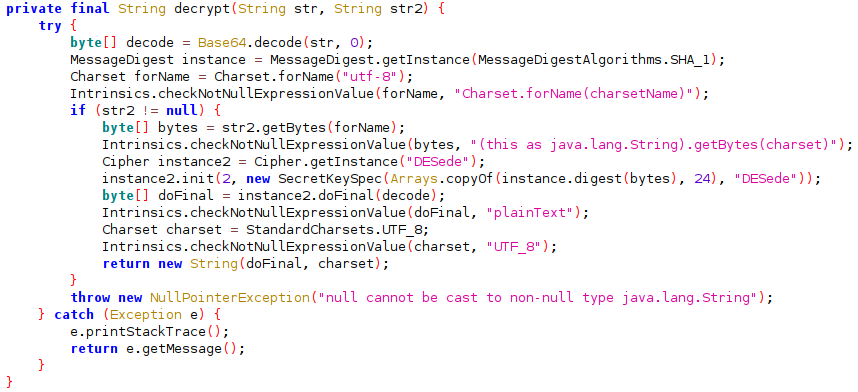
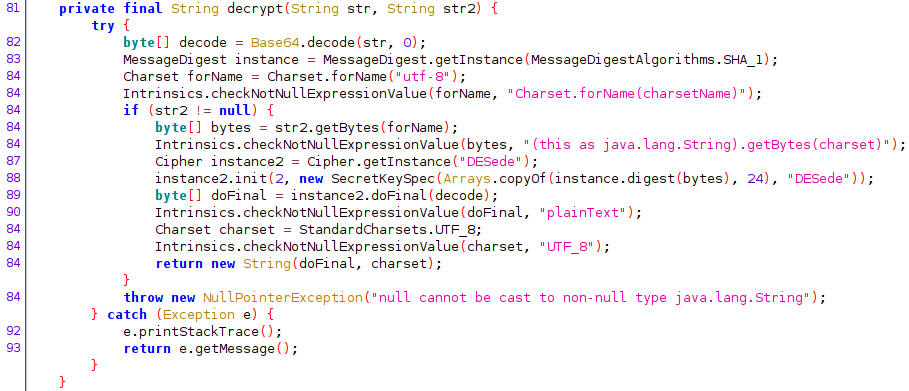
Challenge: 3DES

Changed region(s): [[0.0, 0.0, 1.0, 1.0], [0.0606, 0.7366, 0.9091, 0.9207]]

diff --git a/challenges/symmetric_encryption/3DES.md b/challenges/symmetric_encryption/3DES.md
@@ -38,7 +38,7 @@ res/values/strings.xml:    <string name="_3des_enc_pass">3hpAndro</string>
 The **decrypt** method takes 2 parameters, the encrypted data (str) and the hardcoded password (str2).
 ![img](https://github.com/cygnus-xr1/hpAndro_CTF_walkthrough/blob/main/challenges/symmetric_encryption/img/3des_decrypt.png?raw=true)
 
-As it can be seen above, the key used for encryption/decryption is the first 24 bytes of the hardcoded password's SHA1 hash (line 84, 88).
+As it can be seen above, the key used for encryption/decryption is the first 24 bytes of the hardcoded password's SHA1 hash (line 83,84,88).
 
 The following Java snippet is the replication of the "decrypt" method found in class **com.hpandro.androidsecurity.ui.activity.task.encryption.ThreeDESActivity**:
 ```
